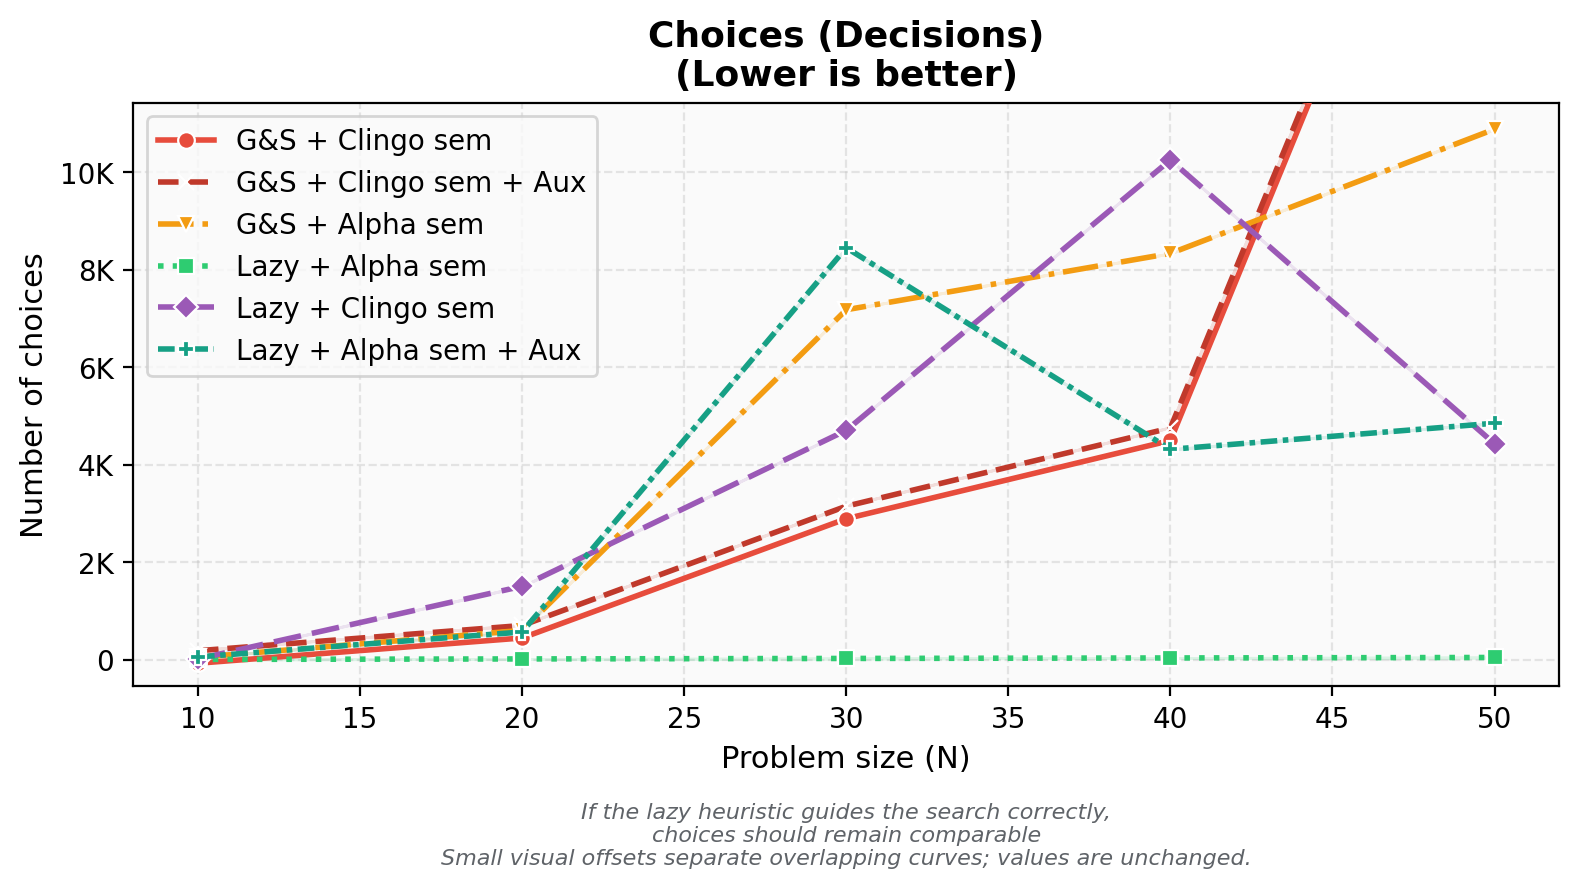
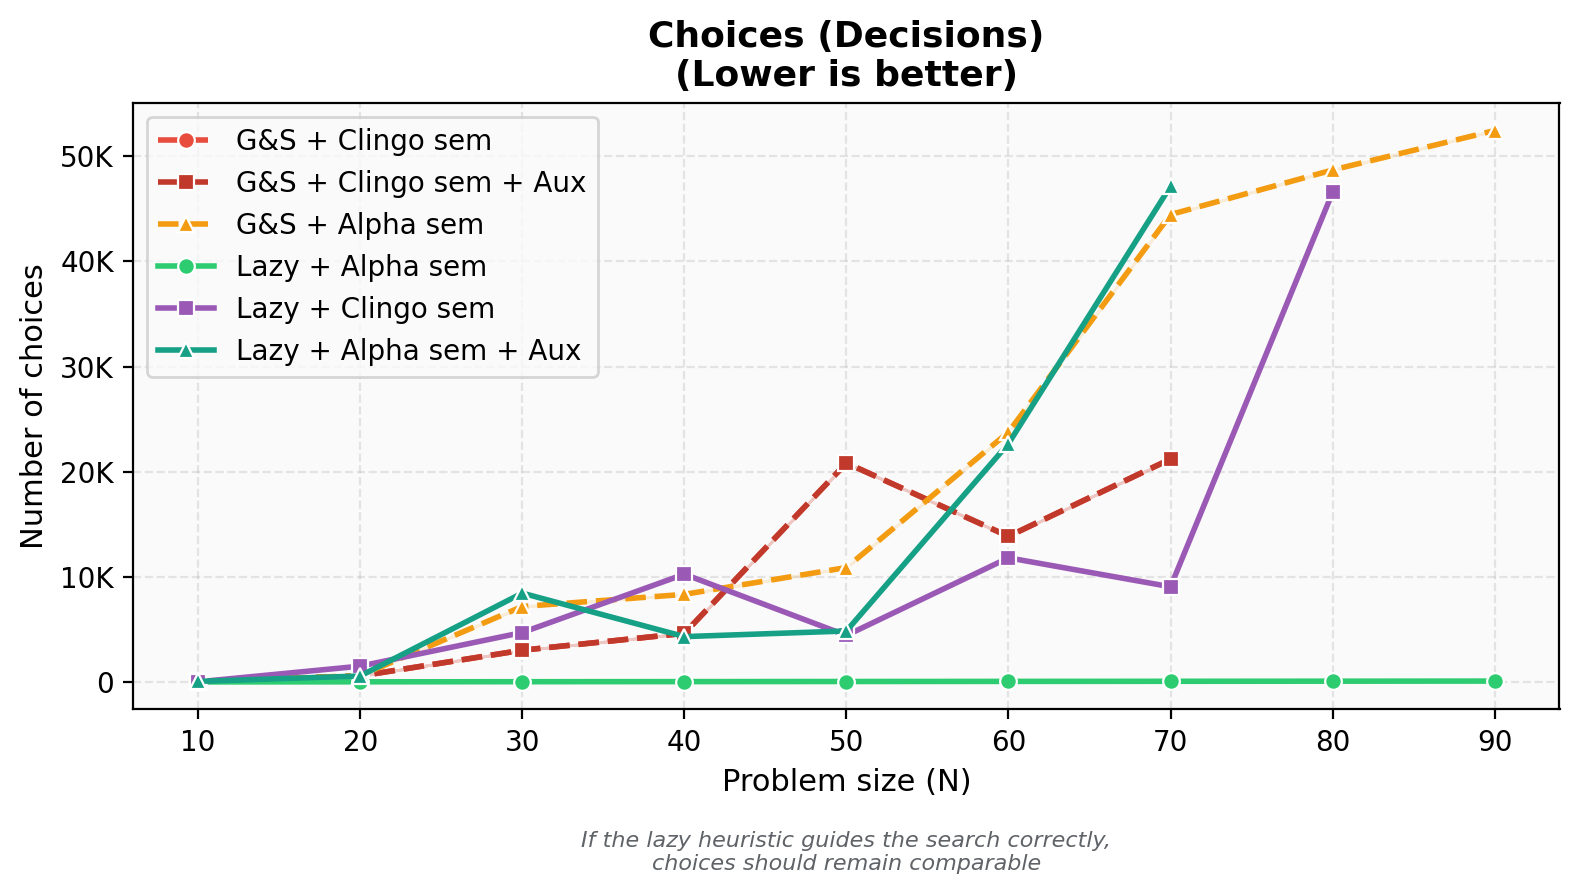
dai

diff --git a/test_folder/tools/gen_graphs.py b/test_folder/tools/gen_graphs.py
@@ -192,7 +192,7 @@ PLOT_CONFIGS = [
     {
         "metric": "memory_mb",
         "title": "RSS Memory",
-        "ylabel": "Memory (MB)",
+        "ylabel": "Memory (GB)",
         "description": "Peak resident memory usage",
         "filename": "memory_comparison.png",
     },
@@ -257,12 +257,21 @@ BSP_THEME = {
     },
     "variant_markers": {
         "gc":  "o",
-        "gc_aux": "x",
-        "ga": "v",
-        "la":   "s",
-        "lc": "D",
-        "la_aux": "P",
-        "la_co": "^",
+        "gc_aux": "s",
+        "ga": "^",
+        "la":   "o",
+        "lc": "s",
+        "la_aux": "^",
+        "la_co": "D",
+    },
+    "variant_linestyles": {
+        "gc": "--",
+        "gc_aux": "--",
+        "ga": "--",
+        "la": "-",
+        "lc": "-",
+        "la_aux": "-",
+        "la_co": "-.",
     },
     "variant_order": ["gc", "gc_aux", "ga", "la", "lc", "la_aux", "la_co"],
     "xlabel": "Problem size (N)",
@@ -348,6 +357,7 @@ def load_csv(csv_path: str):
             variant = row["variant"].strip()
             n = int(row["n"])
             row_values = {}
+            raw[variant][n]["attempted_runs"].append(1.0)
 
             for metric in METRIC_FIELDS:
                 val_str = row.get(metric, "").strip()
@@ -432,7 +442,18 @@ CAPTION_COLOR = "#5F6368"
 SEPARATOR_COLOR = "#D6D6D6"
 VERTICAL_SEPARATOR_GAP_FRACTION = 0.42
 OVERLAP_OFFSET_POINTS = 4.5
-OVERLAP_CAPTION = "Small visual offsets separate overlapping curves; values are unchanged."
+OVERLAP_CAPTION = (
+    "For readability, small vertical offsets are applied to overlapping curves "
+    "in count-based plots only; the offsets do not represent differences in "
+    "the measured values."
+)
+OFFSET_METRICS = {
+    "ground_lazy_heuristic_facts",
+    "ground_heuristics",
+    "combined_heuristics",
+    "ground_facts",
+    "variables",
+}
 VARIANT_LINESTYLES = [
     "-",
     "--",
@@ -487,7 +508,10 @@ def _series_signature(x_values, y_values):
     return tuple((round(x, 10), round(y, 10)) for x, y in _finite_xy(x_values, y_values))
 
 
-def _display_offsets_for_series(series):
+def _display_offsets_for_series(series, *, enabled: bool = True):
+
+    if not enabled:
+        return {item["key"]: 0.0 for item in series}
 
     grouped = defaultdict(list)
     for item in series:
@@ -503,6 +527,11 @@ def _display_offsets_for_series(series):
         for idx, key in enumerate(keys):
             offsets[key] = (idx - center) * OVERLAP_OFFSET_POINTS
     return offsets
+
+
+def _display_offsets_for_metric(metric: str, series):
+
+    return _display_offsets_for_series(series, enabled=metric in OFFSET_METRICS)
 
 
 def _overlapped_series_keys(series) -> set:
@@ -652,17 +681,19 @@ def _format_thousands(value, _pos=None):
     return f"{value:g}"
 
 
-def _format_memory_mb(value, _pos=None):
+def _format_memory_gb_from_mb(value, _pos=None):
 
-    abs_value = abs(value)
-    if abs_value >= 1_000:
-        scaled = value / 1_000
-        return f"{scaled:.1f}".rstrip("0").rstrip(".") + "k"
-    if abs_value >= 1:
-        return f"{value:.0f}"
+    gb_value = value / 1024
+    abs_value = abs(gb_value)
+    if abs_value >= 100 or gb_value.is_integer():
+        return f"{gb_value:.0f}"
+    if abs_value >= 10:
+        return f"{gb_value:.1f}".rstrip("0").rstrip(".")
+    if abs_value >= 0.01:
+        return f"{gb_value:.2f}".rstrip("0").rstrip(".")
     if value == 0:
         return "0"
-    return f"{value:g}"
+    return f"{gb_value:.3g}"
 
 
 def _apply_y_axis_format(ax, metric: str):
@@ -671,7 +702,7 @@ def _apply_y_axis_format(ax, metric: str):
 
     if metric == "memory_mb":
         ax.yaxis.set_major_locator(MaxNLocator(nbins=6))
-        ax.yaxis.set_major_formatter(FuncFormatter(_format_memory_mb))
+        ax.yaxis.set_major_formatter(FuncFormatter(_format_memory_gb_from_mb))
     elif metric in THOUSAND_FORMAT_METRICS:
         ax.yaxis.set_major_locator(MaxNLocator(nbins=6, integer=True))
         ax.yaxis.set_major_formatter(FuncFormatter(_format_thousands))
@@ -1020,7 +1051,7 @@ def generate_graphs(
                 "linestyle": _variant_linestyle(variant, theme),
             })
 
-        offsets = _display_offsets_for_series(series)
+        offsets = _display_offsets_for_metric(metric, series)
 
         for item in series:
             has_data = True
@@ -1055,13 +1086,14 @@ def generate_graphs(
 
         _apply_y_axis_format(ax, metric)
 
-        _add_axis_caption(
-            ax,
-            _caption_with_overlap_note(config["description"], offsets),
-            y=-0.27,
-            width=64,
-            fontsize=7,
-        )
+        if _has_visual_offsets(offsets):
+            _add_axis_caption(
+                ax,
+                OVERLAP_CAPTION,
+                y=-0.23,
+                width=66,
+                fontsize=7,
+            )
 
         if not has_data:
             ax.text(0.5, 0.5, "No data", transform=ax.transAxes,
@@ -1173,7 +1205,7 @@ def _generate_single_chart(stats, graphs_dir, metric, title, ylabel, description
             "linestyle": _variant_linestyle(variant, theme),
         })
 
-    offsets = _display_offsets_for_series(series)
+    offsets = _display_offsets_for_metric(metric, series)
 
     for item in series:
         has_data = True
@@ -1278,7 +1310,7 @@ def _generate_relative_vs_baseline_chart(stats, graphs_dir, baseline_variant, th
             "linestyle": _variant_linestyle(variant, theme),
         })
 
-    speedup_offsets = _display_offsets_for_series(speedup_series)
+    speedup_offsets = _display_offsets_for_series(speedup_series, enabled=False)
     for item in speedup_series:
         transform = _offset_data_transform(ax_speedup, speedup_offsets.get(item["key"], 0.0))
         ax_speedup.plot(item["x"], item["y"], marker=item["marker"], linewidth=2,
@@ -1346,7 +1378,7 @@ def _generate_relative_vs_baseline_chart(stats, graphs_dir, baseline_variant, th
                 "linestyle": ":",
             })
 
-    reduction_offsets = _display_offsets_for_series(reduction_series)
+    reduction_offsets = _display_offsets_for_series(reduction_series, enabled=False)
     for item in reduction_series:
         transform = _offset_data_transform(ax_reduction, reduction_offsets.get(item["key"], 0.0))
         ax_reduction.plot(item["x"], item["y"], marker=item["marker"], linewidth=2,
@@ -1457,7 +1489,7 @@ def _generate_heuristics_vs_facts_chart(stats, graphs_dir, theme, filename, xlab
                 "linestyle": ":",
             })
 
-    offsets = _display_offsets_for_series(series)
+    offsets = _display_offsets_for_series(series, enabled=False)
     for item in series:
         transform = _offset_data_transform(ax, offsets.get(item["key"], 0.0))
         ax.plot(item["x"], item["y"], marker=item["marker"], linewidth=2,
@@ -1543,7 +1575,7 @@ def _generate_heuristic_reduction_chart(stats, graphs_dir, baseline_variant, the
             "linestyle": _variant_linestyle(variant, theme),
         })
 
-    offsets = _display_offsets_for_series(series)
+    offsets = _display_offsets_for_series(series, enabled=False)
     for item in series:
         transform = _offset_data_transform(ax, offsets.get(item["key"], 0.0))
         ax.plot(item["x"], item["y"],
@@ -1657,7 +1689,7 @@ def print_summary_table(stats, theme):
 
     variants = _ordered_variants(stats, theme)
     labels = theme["variant_labels"]
-    table_width = 8 + len(variants) * 78
+    table_width = 8 + len(variants) * 87
 
     print(f"\n{'='*table_width}")
     print(f"{'N':>5}  ", end="")
@@ -1667,7 +1699,7 @@ def print_summary_table(stats, theme):
     print()
     print(f"{'':>5}  ", end="")
     for _ in variants:
-        print(f"  {'Grnd(s)':>8} {'Solv(s)':>8} {'Tot(s)':>8} {'Choices':>8} {'Conf.':>8} {'Rst.':>6} {'Lines':>7} {'Rules':>7} {'Vars':>7} {'Heur':>7} {'LazyH':>7} {'Facts':>7}", end="")
+        print(f"  {'Grnd(s)':>8} {'Solv(s)':>8} {'Tot(s)':>8} {'Choices':>8} {'Conf.':>8} {'Rst.':>6} {'MemGB':>7} {'Lines':>7} {'Rules':>7} {'Vars':>7} {'Heur':>7} {'LazyH':>7} {'Facts':>7}", end="")
     print()
     print("-" * table_width)
 
@@ -1685,6 +1717,7 @@ def print_summary_table(stats, theme):
             choices = _get_mean_at_n(stats[v], "choices", n)
             conflicts = _get_mean_at_n(stats[v], "conflicts", n)
             restarts = _get_mean_at_n(stats[v], "restarts", n)
+            memory_mb = _get_mean_at_n(stats[v], "memory_mb", n)
             ground_lines = _get_mean_at_n(stats[v], "ground_lines", n)
             rules = _get_mean_at_n(stats[v], "rules", n)
             variables = _get_mean_at_n(stats[v], "variables", n)
@@ -1698,6 +1731,7 @@ def print_summary_table(stats, theme):
             c_str = f"{choices:.0f}" if choices is not None else "N/A"
             f_str = f"{conflicts:.0f}" if conflicts is not None else "N/A"
             rs_str = f"{restarts:.0f}" if restarts is not None else "N/A"
+            m_str = f"{memory_mb / 1024:.2f}" if memory_mb is not None else "N/A"
             gl_str = f"{ground_lines:.0f}" if ground_lines is not None else "N/A"
             r_str = f"{rules:.0f}" if rules is not None else "N/A"
             v_str = f"{variables:.0f}" if variables is not None else "N/A"
@@ -1705,7 +1739,7 @@ def print_summary_table(stats, theme):
             lh_str = f"{ground_lazy:.0f}" if ground_lazy is not None else "N/A"
             gf_str = f"{ground_facts:.0f}" if ground_facts is not None else "N/A"
 
-            row += f"  {g_str:>8} {s_str:>8} {t_str:>8} {c_str:>8} {f_str:>8} {rs_str:>6} {gl_str:>7} {r_str:>7} {v_str:>7} {h_str:>7} {lh_str:>7} {gf_str:>7}"
+            row += f"  {g_str:>8} {s_str:>8} {t_str:>8} {c_str:>8} {f_str:>8} {rs_str:>6} {m_str:>7} {gl_str:>7} {r_str:>7} {v_str:>7} {h_str:>7} {lh_str:>7} {gf_str:>7}"
         print(row)
 
     print(f"{'='*table_width}\n")

diff --git a/test_folder/benchmarks/benchmark_runner.py b/test_folder/benchmarks/benchmark_runner.py
@@ -142,7 +142,7 @@ def parse_solver_metrics(data: dict[str, Any], memory_mb: str) -> dict[str, str]
     }
 
 
-def failure_metrics() -> dict[str, str]:
+def failure_metrics(memory_mb: str = "NA") -> dict[str, str]:
     return {
         "solving_s": "NA",
         "total_s": "NA",
@@ -152,7 +152,7 @@ def failure_metrics() -> dict[str, str]:
         "restarts": "NA",
         "rules": "NA",
         "variables": "NA",
-        "memory_mb": "NA",
+        "memory_mb": memory_mb,
     }
 
 
@@ -232,6 +232,12 @@ def child_memory_mb() -> str:
     return f"{usage.ru_maxrss / 1024:.4f}"
 
 
+def memory_mb_to_gb(memory_mb: str) -> str:
+    if memory_mb == "NA":
+        return "NA"
+    return f"{float(memory_mb) / 1024:.2f}"
+
+
 def append_csv(csv_path: str, row: dict[str, str]):
     path = Path(csv_path)
     path.parent.mkdir(parents=True, exist_ok=True)
@@ -256,7 +262,7 @@ def run_benchmark(args) -> int:
         proc = run_command(json_cmd, args.timeout + 5, args.memory_bytes)
     except subprocess.TimeoutExpired:
         print("    warning: timeout; solver metrics marked as NA", file=sys.stderr)
-        row.update(failure_metrics())
+        row.update(failure_metrics(child_memory_mb()))
         status = "timeout"
         failure_reason = "solver_timeout"
         exit_code = EXIT_TIMEOUT
@@ -291,7 +297,7 @@ def run_benchmark(args) -> int:
             )
             if proc.stderr:
                 print(proc.stderr.strip(), file=sys.stderr)
-            row.update(failure_metrics())
+            row.update(failure_metrics(memory_mb))
 
     ground_counts, ground_status = collect_ground_counts(args, clingo)
     row.update(ground_counts)
@@ -312,13 +318,14 @@ def run_benchmark(args) -> int:
     )
     append_csv(args.csv, row)
 
+    display_row = {**row, "memory_gb": memory_mb_to_gb(row.get("memory_mb", "NA"))}
     print(
         "    status={status} reason={failure_reason} "
         "    grounding={grounding_s}s solving={solving_s}s total={total_s}s "
         "choices={choices} conflicts={conflicts} restarts={restarts} "
-        "rules={rules} vars={variables} mem={memory_mb}MB "
+        "rules={rules} vars={variables} mem={memory_gb}GB "
         "heur={ground_heuristics} lazy_facts={ground_lazy_heuristic_facts} "
-        "facts={ground_facts} ground_lines={ground_lines}".format(**row)
+        "facts={ground_facts} ground_lines={ground_lines}".format(**display_row)
     )
     return exit_code
 

diff --git a/docs/README.md b/docs/README.md
@@ -191,10 +191,13 @@ repeat:   1
 timeout:  60 secondi per singola run
 ```
 
-`STOP_VARIANT_ON_MEMORY=1` e' attivo di default. Se una variante raggiunge il limite di memoria a un certo valore di `n`, lo script la ferma per i valori successivi e continua invece con le altre varianti. Per disattivare questo comportamento:
+`STOP_VARIANT_ON_MEMORY=0` e' il default: il benchmark prova tutti i valori di
+`n` richiesti anche se una variante fallisce o raggiunge il limite memoria, in
+modo che il CSV registri una riga per ogni combinazione variante/N. Per fermare
+una variante dopo il primo limite memoria:
 
 ```bash
-STOP_VARIANT_ON_MEMORY=0 \
+STOP_VARIANT_ON_MEMORY=1 \
 bash test_folder/benchmarks/benchmark_bsp.sh
 ```
 
@@ -306,6 +309,7 @@ restarts                      Clingo JSON, Stats.Core.Restarts
 rules                         Clingo JSON, Stats.LP.Rules.Final
 variables                     Clingo JSON, Stats.Problem.Variables
 memory_mb                     resource.getrusage(RUSAGE_CHILDREN).ru_maxrss / 1024
+                              salvata in MB nel CSV; log e grafici la mostrano in GB
 ground_heuristics             conteggio righe "#heuristic" in clingo --text
 ground_lazy_heuristic_facts   conteggio righe "__heuristic(" in clingo --text
 ground_facts                  conteggio fatti ground in clingo --text
@@ -353,12 +357,20 @@ ground_lazy_heuristic_facts.png
 combined_heuristics.png
 ground_program_lines.png
 ground_facts.png
-memory_comparison.png
+memory_comparison.png         memoria in GB
 choices_comparison.png
 conflicts_comparison.png
 restarts_comparison.png
 variables_comparison.png
 ```
+
+Nei grafici di conteggio dove curve identiche o quasi identiche si
+sovrappongono (`ground_heuristics.png`,
+`ground_lazy_heuristic_facts.png`, `combined_heuristics.png`,
+`ground_facts.png`, `variables_comparison.png`), il generatore puo'
+applicare piccoli offset verticali solo visuali. Gli offset sono dichiarati
+nella figura e non rappresentano differenze nei valori misurati. I grafici di
+tempo, memoria e statistiche di ricerca restano senza offset.
 
 ## Prossimi Test Appuntati
 
